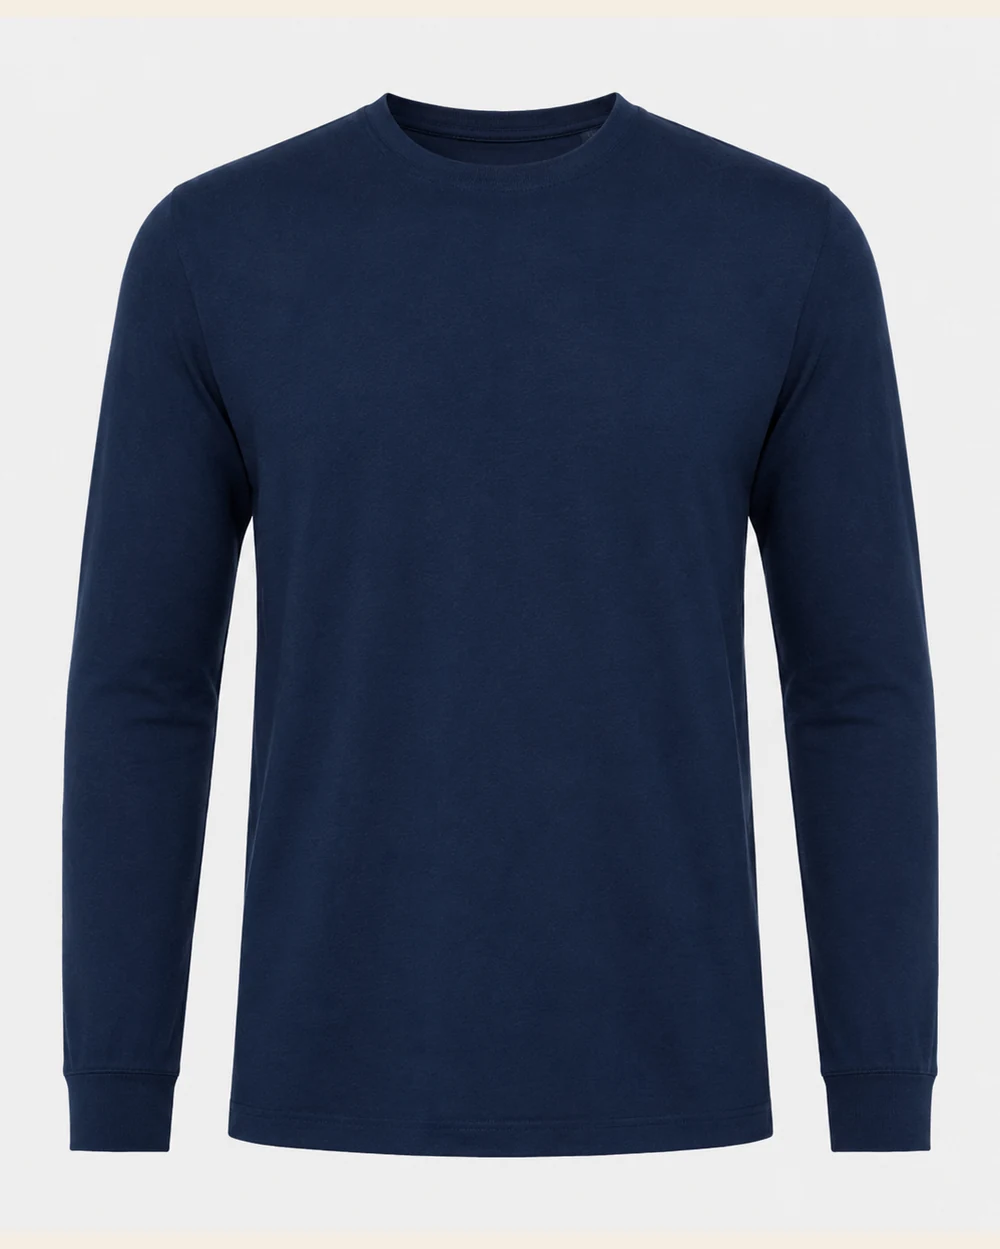
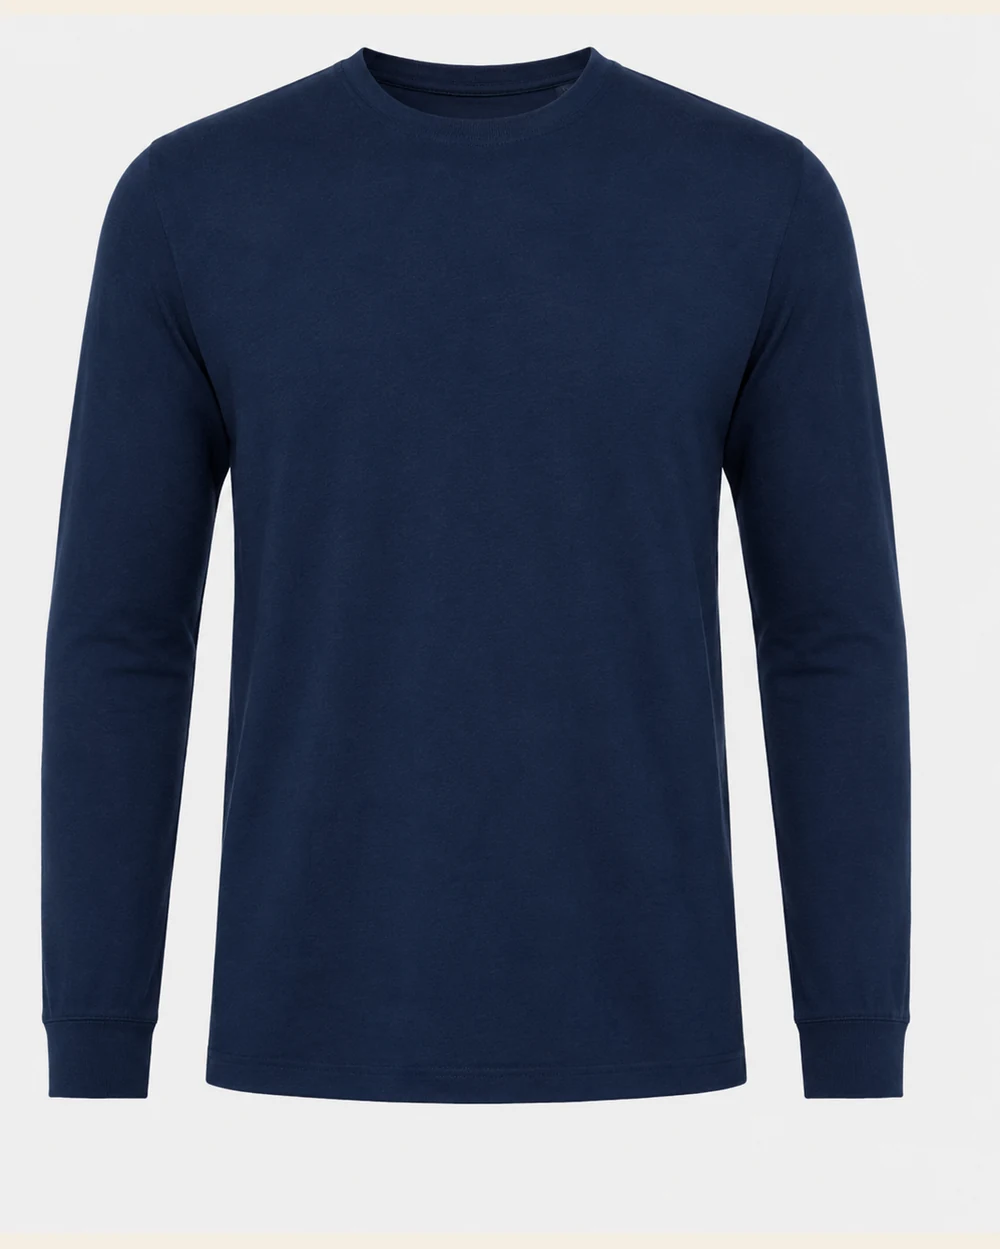
fix: crop más apretado, productos llenan el alto del catálogo
- Reduce padding del autocrop de 7% a 2-3% para que cada prenda llene
  el alto del canvas 4:5 (estilo Buzo con Capucha que sirvió de referencia)
- Todas las prendas se ven al mismo "zoom" relativo, sin tanto espacio en
  blanco crema alrededor
- 46 imágenes reprocesadas desde originales (7 MB total)

https://claude.ai/code/session_01HEXDpJccR3TfXVqUQu2rSV

Changed region(s): [[0.031, 0.0312, 0.961, 0.9367], [0.186, 0.281, 0.217, 0.3122]]

diff --git a/camisa-industrial-mistral.html b/camisa-industrial-mistral.html
@@ -21,8 +21,8 @@
     <link rel="preconnect" href="https://fonts.gstatic.com" crossorigin>
     <link href="https://fonts.googleapis.com/css2?family=Inter:wght@400;500;600;700&family=Roboto+Slab:wght@500;700;800&display=swap" rel="stylesheet">
     <link rel="stylesheet" href="https://cdnjs.cloudflare.com/ajax/libs/font-awesome/6.5.1/css/all.min.css">
-    <link rel="stylesheet" href="css/style.css?v=1780635449">
-    <script src="js/pixels.js?v=1780635449"></script>
+    <link rel="stylesheet" href="css/style.css?v=1780635776">
+    <script src="js/pixels.js?v=1780635776"></script>
     <script type="application/ld+json">
     { "@context": "https://schema.org", "@type": "Product", "name": "Camisa Industrial Mistral 7.5oz", "image": "https://textilespelileo.com/img/galeria/camisa-1.webp", "description": "Camisa de trabajo en tela Mistral 7.5oz, 100% algodón sanforizada (no encoge), proceso stone y cinta reflectiva AAA con respaldo para seguridad industrial.", "brand": { "@type": "Brand", "name": "Textiles Pelileo" }, "material": "100% algodón Mistral 7.5oz", "offers": { "@type": "AggregateOffer", "priceCurrency": "USD", "lowPrice": "12", "highPrice": "16", "availability": "https://schema.org/InStock", "seller": { "@type": "Organization", "name": "Textiles Pelileo" } } }
     </script>
@@ -159,9 +159,9 @@
         </div>
     </section>
 
-    <script src="js/partials.js?v=1780635449"></script>
-    <script src="js/products.js?v=1780635449"></script>
-    <script src="js/main.js?v=1780635449"></script>
+    <script src="js/partials.js?v=1780635776"></script>
+    <script src="js/products.js?v=1780635776"></script>
+    <script src="js/main.js?v=1780635776"></script>
     <script>
         TP.renderProducts("#related-grid", { only: ["pantalon-premium-gregori.html", "uniformes-industriales.html", "bordados-corporativos.html"] });
         document.querySelectorAll("[data-wa]").forEach(function (a) { a.href = TP.wa(document.body.getAttribute("data-wa-msg")); });

diff --git a/uniformes-industriales.html b/uniformes-industriales.html
@@ -21,8 +21,8 @@
     <link rel="preconnect" href="https://fonts.gstatic.com" crossorigin>
     <link href="https://fonts.googleapis.com/css2?family=Inter:wght@400;500;600;700&family=Roboto+Slab:wght@500;700;800&display=swap" rel="stylesheet">
     <link rel="stylesheet" href="https://cdnjs.cloudflare.com/ajax/libs/font-awesome/6.5.1/css/all.min.css">
-    <link rel="stylesheet" href="css/style.css?v=1780635449">
-    <script src="js/pixels.js?v=1780635449"></script>
+    <link rel="stylesheet" href="css/style.css?v=1780635776">
+    <script src="js/pixels.js?v=1780635776"></script>
     <script type="application/ld+json">
     { "@context": "https://schema.org", "@type": "Product", "name": "Uniforme Industrial Completo", "image": "https://textilespelileo.com/img/uniforme-completo.webp", "description": "Uniforme de trabajo completo: camisa Mistral 7.5oz 100% algodón con reflectivo AAA + pantalón Gregori 14oz 100% algodón. Con opción de bordado de logotipo. Ideal para dotación de empresas.", "brand": { "@type": "Brand", "name": "Textiles Pelileo" }, "offers": { "@type": "Offer", "priceCurrency": "USD", "availability": "https://schema.org/InStock", "seller": { "@type": "Organization", "name": "Textiles Pelileo" } } }
     </script>
@@ -132,9 +132,9 @@
         </div>
     </section>
 
-    <script src="js/partials.js?v=1780635449"></script>
-    <script src="js/products.js?v=1780635449"></script>
-    <script src="js/main.js?v=1780635449"></script>
+    <script src="js/partials.js?v=1780635776"></script>
+    <script src="js/products.js?v=1780635776"></script>
+    <script src="js/main.js?v=1780635776"></script>
     <script>
         TP.renderProducts("#related-grid", { only: ["camisa-industrial-mistral.html", "pantalon-premium-gregori.html", "bordados-corporativos.html", "diseno-logotipo.html"] });
         document.querySelectorAll("[data-wa]").forEach(function (a) { a.href = TP.wa(document.body.getAttribute("data-wa-msg")); });

diff --git a/pantalon-gregori-12oz.html b/pantalon-gregori-12oz.html
@@ -21,8 +21,8 @@
     <link rel="preconnect" href="https://fonts.gstatic.com" crossorigin>
     <link href="https://fonts.googleapis.com/css2?family=Inter:wght@400;500;600;700&family=Roboto+Slab:wght@500;700;800&display=swap" rel="stylesheet">
     <link rel="stylesheet" href="https://cdnjs.cloudflare.com/ajax/libs/font-awesome/6.5.1/css/all.min.css">
-    <link rel="stylesheet" href="css/style.css?v=1780635449">
-    <script src="js/pixels.js?v=1780635449"></script>
+    <link rel="stylesheet" href="css/style.css?v=1780635776">
+    <script src="js/pixels.js?v=1780635776"></script>
     <script type="application/ld+json">
     { "@context": "https://schema.org", "@type": "Product", "name": "Pantalón Gregori 12oz", "image": "https://textilespelileo.com/img/pantalon-premium-2.webp", "description": "Pantalón de trabajo en tela Gregori 12oz, 100% algodón. Opción más ligera que el premium manteniendo la calidad Gregori. Disponible bajo pedido.", "brand": { "@type": "Brand", "name": "Textiles Pelileo" }, "offers": { "@type": "AggregateOffer", "priceCurrency": "USD", "lowPrice": "10", "highPrice": "15", "availability": "https://schema.org/PreOrder", "seller": { "@type": "Organization", "name": "Textiles Pelileo" } } }
     </script>
@@ -122,9 +122,9 @@
         </div>
     </section>
 
-    <script src="js/partials.js?v=1780635449"></script>
-    <script src="js/products.js?v=1780635449"></script>
-    <script src="js/main.js?v=1780635449"></script>
+    <script src="js/partials.js?v=1780635776"></script>
+    <script src="js/products.js?v=1780635776"></script>
+    <script src="js/main.js?v=1780635776"></script>
     <script>
         TP.renderProducts("#related-grid", { only: ["pantalon-premium-gregori.html", "pantalon-stretch.html", "camisa-industrial-mistral.html"] });
         document.querySelectorAll("[data-wa]").forEach(function (a) { a.href = TP.wa(document.body.getAttribute("data-wa-msg")); });

diff --git a/pantalon-stretch.html b/pantalon-stretch.html
@@ -21,8 +21,8 @@
     <link rel="preconnect" href="https://fonts.gstatic.com" crossorigin>
     <link href="https://fonts.googleapis.com/css2?family=Inter:wght@400;500;600;700&family=Roboto+Slab:wght@500;700;800&display=swap" rel="stylesheet">
     <link rel="stylesheet" href="https://cdnjs.cloudflare.com/ajax/libs/font-awesome/6.5.1/css/all.min.css">
-    <link rel="stylesheet" href="css/style.css?v=1780635449">
-    <script src="js/pixels.js?v=1780635449"></script>
+    <link rel="stylesheet" href="css/style.css?v=1780635776">
+    <script src="js/pixels.js?v=1780635776"></script>
     <script type="application/ld+json">
     { "@context": "https://schema.org", "@type": "Product", "name": "Pantalón Stretch de Trabajo", "image": "https://textilespelileo.com/img/pantalon-doblado.webp", "description": "Pantalón de trabajo en tela stretch de alta calidad. Mayor comodidad y movilidad, resistente y duradero para uso laboral intensivo.", "brand": { "@type": "Brand", "name": "Textiles Pelileo" }, "offers": { "@type": "AggregateOffer", "priceCurrency": "USD", "lowPrice": "12", "highPrice": "16", "availability": "https://schema.org/InStock", "seller": { "@type": "Organization", "name": "Textiles Pelileo" } } }
     </script>
@@ -147,9 +147,9 @@
         </div>
     </section>
 
-    <script src="js/partials.js?v=1780635449"></script>
-    <script src="js/products.js?v=1780635449"></script>
-    <script src="js/main.js?v=1780635449"></script>
+    <script src="js/partials.js?v=1780635776"></script>
+    <script src="js/products.js?v=1780635776"></script>
+    <script src="js/main.js?v=1780635776"></script>
     <script>
         TP.renderProducts("#related-grid", { only: ["pantalon-premium-gregori.html", "camisa-industrial-mistral.html", "uniformes-industriales.html"] });
         document.querySelectorAll("[data-wa]").forEach(function (a) { a.href = TP.wa(document.body.getAttribute("data-wa-msg")); });

diff --git a/chaleco-gabardina-rojo.html b/chaleco-gabardina-rojo.html
@@ -21,8 +21,8 @@
     <link rel="preconnect" href="https://fonts.gstatic.com" crossorigin>
     <link href="https://fonts.googleapis.com/css2?family=Inter:wght@400;500;600;700&family=Roboto+Slab:wght@500;700;800&display=swap" rel="stylesheet">
     <link rel="stylesheet" href="https://cdnjs.cloudflare.com/ajax/libs/font-awesome/6.5.1/css/all.min.css">
-    <link rel="stylesheet" href="css/style.css?v=1780635449">
-    <script src="js/pixels.js?v=1780635449"></script>
+    <link rel="stylesheet" href="css/style.css?v=1780635776">
+    <script src="js/pixels.js?v=1780635776"></script>
     <script type="application/ld+json">
     { "@context": "https://schema.org", "@type": "Product", "name": "Chaleco Gabardina Reflectivo Rojo", "image": "https://textilespelileo.com/img/galeria/chalecorojo-1.webp", "description": "Chaleco rojo en tela gabardina resistente con doble cinta reflectiva amarilla AAA. Diseñado para seguridad industrial y trabajos de alta visibilidad.", "brand": { "@type": "Brand", "name": "Textiles Pelileo" }, "offers": { "@type": "Offer", "priceCurrency": "USD", "availability": "https://schema.org/InStock", "seller": { "@type": "Organization", "name": "Textiles Pelileo" } } }
     </script>
@@ -119,9 +119,9 @@
         </div>
     </section>
 
-    <script src="js/partials.js?v=1780635449"></script>
-    <script src="js/products.js?v=1780635449"></script>
-    <script src="js/main.js?v=1780635449"></script>
+    <script src="js/partials.js?v=1780635776"></script>
+    <script src="js/products.js?v=1780635776"></script>
+    <script src="js/main.js?v=1780635776"></script>
     <script>
         TP.renderProducts("#related-grid", { only: ["chaleco-antifluidos-azul.html", "camisa-industrial-mistral.html", "uniformes-industriales.html"] });
         document.querySelectorAll("[data-wa]").forEach(function (a) { a.href = TP.wa(document.body.getAttribute("data-wa-msg")); });

diff --git a/buzo-capucha.html b/buzo-capucha.html
@@ -21,8 +21,8 @@
     <link rel="preconnect" href="https://fonts.gstatic.com" crossorigin>
     <link href="https://fonts.googleapis.com/css2?family=Inter:wght@400;500;600;700&family=Roboto+Slab:wght@500;700;800&display=swap" rel="stylesheet">
     <link rel="stylesheet" href="https://cdnjs.cloudflare.com/ajax/libs/font-awesome/6.5.1/css/all.min.css">
-    <link rel="stylesheet" href="css/style.css?v=1780635449">
-    <script src="js/pixels.js?v=1780635449"></script>
+    <link rel="stylesheet" href="css/style.css?v=1780635776">
+    <script src="js/pixels.js?v=1780635776"></script>
     <script type="application/ld+json">
     { "@context": "https://schema.org", "@type": "Product", "name": "Buzo con Capucha y Reflectivo", "image": "https://textilespelileo.com/img/galeria/buzocapucha-1.webp", "description": "Buzo manga larga con capucha en tela jersey, con cinta reflectiva incluida. Cómodo, resistente y personalizable.", "brand": { "@type": "Brand", "name": "Textiles Pelileo" }, "offers": { "@type": "AggregateOffer", "priceCurrency": "USD", "lowPrice": "11", "highPrice": "12", "availability": "https://schema.org/InStock", "seller": { "@type": "Organization", "name": "Textiles Pelileo" } } }
     </script>
@@ -134,9 +134,9 @@
         </div>
     </section>
 
-    <script src="js/partials.js?v=1780635449"></script>
-    <script src="js/products.js?v=1780635449"></script>
-    <script src="js/main.js?v=1780635449"></script>
+    <script src="js/partials.js?v=1780635776"></script>
+    <script src="js/products.js?v=1780635776"></script>
+    <script src="js/main.js?v=1780635776"></script>
     <script>
         TP.renderProducts("#related-grid", { only: ["buzo-pique.html", "camiseta-jersey.html", "bordados-corporativos.html"] });
         document.querySelectorAll("[data-wa]").forEach(function (a) { a.href = TP.wa(document.body.getAttribute("data-wa-msg")); });

diff --git a/camiseta-jersey.html b/camiseta-jersey.html
@@ -21,8 +21,8 @@
     <link rel="preconnect" href="https://fonts.gstatic.com" crossorigin>
     <link href="https://fonts.googleapis.com/css2?family=Inter:wght@400;500;600;700&family=Roboto+Slab:wght@500;700;800&display=swap" rel="stylesheet">
     <link rel="stylesheet" href="https://cdnjs.cloudflare.com/ajax/libs/font-awesome/6.5.1/css/all.min.css">
-    <link rel="stylesheet" href="css/style.css?v=1780635449">
-    <script src="js/pixels.js?v=1780635449"></script>
+    <link rel="stylesheet" href="css/style.css?v=1780635776">
+    <script src="js/pixels.js?v=1780635776"></script>
     <script type="application/ld+json">
     { "@context": "https://schema.org", "@type": "Product", "name": "Camiseta de Tela Jersey", "image": "https://textilespelileo.com/img/camiseta-jersey.webp", "description": "Camiseta básica de cuello redondo en tela jersey, cómoda, ligera y de colores duraderos. Ideal para personalizar con bordado.", "brand": { "@type": "Brand", "name": "Textiles Pelileo" }, "offers": { "@type": "AggregateOffer", "priceCurrency": "USD", "lowPrice": "6", "highPrice": "7", "availability": "https://schema.org/InStock", "seller": { "@type": "Organization", "name": "Textiles Pelileo" } } }
     </script>
@@ -134,9 +134,9 @@
         </div>
     </section>
 
-    <script src="js/partials.js?v=1780635449"></script>
-    <script src="js/products.js?v=1780635449"></script>
-    <script src="js/main.js?v=1780635449"></script>
+    <script src="js/partials.js?v=1780635776"></script>
+    <script src="js/products.js?v=1780635776"></script>
+    <script src="js/main.js?v=1780635776"></script>
     <script>
         TP.renderProducts("#related-grid", { only: ["buzo-pique.html", "camisetas-buzos.html", "bordados-corporativos.html"] });
         document.querySelectorAll("[data-wa]").forEach(function (a) { a.href = TP.wa(document.body.getAttribute("data-wa-msg")); });

diff --git a/buzo-pique.html b/buzo-pique.html
@@ -21,8 +21,8 @@
     <link rel="preconnect" href="https://fonts.gstatic.com" crossorigin>
     <link href="https://fonts.googleapis.com/css2?family=Inter:wght@400;500;600;700&family=Roboto+Slab:wght@500;700;800&display=swap" rel="stylesheet">
     <link rel="stylesheet" href="https://cdnjs.cloudflare.com/ajax/libs/font-awesome/6.5.1/css/all.min.css">
-    <link rel="stylesheet" href="css/style.css?v=1780635449">
-    <script src="js/pixels.js?v=1780635449"></script>
+    <link rel="stylesheet" href="css/style.css?v=1780635776">
+    <script src="js/pixels.js?v=1780635776"></script>
     <script type="application/ld+json">
     { "@context": "https://schema.org", "@type": "Product", "name": "Buzo Polo Piqué", "image": "https://textilespelileo.com/img/galeria/buzopique-1.webp", "description": "Buzo en tela polo piqué premium, costuras reforzadas y acabado de calidad. Opción con capucha y cinta reflectiva.", "brand": { "@type": "Brand", "name": "Textiles Pelileo" }, "offers": { "@type": "AggregateOffer", "priceCurrency": "USD", "lowPrice": "9", "highPrice": "10", "availability": "https://schema.org/InStock", "seller": { "@type": "Organization", "name": "Textiles Pelileo" } } }
     </script>
@@ -134,9 +134,9 @@
         </div>
     </section>
 
-    <script src="js/partials.js?v=1780635449"></script>
-    <script src="js/products.js?v=1780635449"></script>
-    <script src="js/main.js?v=1780635449"></script>
+    <script src="js/partials.js?v=1780635776"></script>
+    <script src="js/products.js?v=1780635776"></script>
+    <script src="js/main.js?v=1780635776"></script>
     <script>
         TP.renderProducts("#related-grid", { only: ["camiseta-jersey.html", "camisetas-buzos.html", "bordados-corporativos.html"] });
         document.querySelectorAll("[data-wa]").forEach(function (a) { a.href = TP.wa(document.body.getAttribute("data-wa-msg")); });

diff --git a/camiseta-polo-pique.html b/camiseta-polo-pique.html
@@ -21,8 +21,8 @@
     <link rel="preconnect" href="https://fonts.gstatic.com" crossorigin>
     <link href="https://fonts.googleapis.com/css2?family=Inter:wght@400;500;600;700&family=Roboto+Slab:wght@500;700;800&display=swap" rel="stylesheet">
     <link rel="stylesheet" href="https://cdnjs.cloudflare.com/ajax/libs/font-awesome/6.5.1/css/all.min.css">
-    <link rel="stylesheet" href="css/style.css?v=1780635449">
-    <script src="js/pixels.js?v=1780635449"></script>
+    <link rel="stylesheet" href="css/style.css?v=1780635776">
+    <script src="js/pixels.js?v=1780635776"></script>
     <script type="application/ld+json">
     { "@context": "https://schema.org", "@type": "Product", "name": "Camiseta Polo Piqué", "image": "https://textilespelileo.com/img/galeria/cpique-1.webp", "description": "Camiseta polo manga corta en tela piqué premium con cuello polo clásico, costuras reforzadas. Ideal para personalizar.", "brand": { "@type": "Brand", "name": "Textiles Pelileo" }, "offers": { "@type": "AggregateOffer", "priceCurrency": "USD", "lowPrice": "8", "highPrice": "9", "availability": "https://schema.org/InStock", "seller": { "@type": "Organization", "name": "Textiles Pelileo" } } }
     </script>
@@ -134,9 +134,9 @@
         </div>
     </section>
 
-    <script src="js/partials.js?v=1780635449"></script>
-    <script src="js/products.js?v=1780635449"></script>
-    <script src="js/main.js?v=1780635449"></script>
+    <script src="js/partials.js?v=1780635776"></script>
+    <script src="js/products.js?v=1780635776"></script>
+    <script src="js/main.js?v=1780635776"></script>
     <script>
         TP.renderProducts("#related-grid", { only: ["buzo-pique.html", "camiseta-jersey.html", "bordados-corporativos.html"] });
         document.querySelectorAll("[data-wa]").forEach(function (a) { a.href = TP.wa(document.body.getAttribute("data-wa-msg")); });

diff --git a/pantalon-economico-empresarial.html b/pantalon-economico-empresarial.html
@@ -21,8 +21,8 @@
     <link rel="preconnect" href="https://fonts.gstatic.com" crossorigin>
     <link href="https://fonts.googleapis.com/css2?family=Inter:wght@400;500;600;700&family=Roboto+Slab:wght@500;700;800&display=swap" rel="stylesheet">
     <link rel="stylesheet" href="https://cdnjs.cloudflare.com/ajax/libs/font-awesome/6.5.1/css/all.min.css">
-    <link rel="stylesheet" href="css/style.css?v=1780635449">
-    <script src="js/pixels.js?v=1780635449"></script>
+    <link rel="stylesheet" href="css/style.css?v=1780635776">
+    <script src="js/pixels.js?v=1780635776"></script>
     <script type="application/ld+json">
     { "@context": "https://schema.org", "@type": "Product", "name": "Pantalón Económico Empresarial", "description": "Pantalón de trabajo pensado para dotación de empresas y cuadrillas con presupuesto ajustado. Disponible solo bajo pedido por mayor.", "brand": { "@type": "Brand", "name": "Textiles Pelileo" }, "offers": { "@type": "AggregateOffer", "priceCurrency": "USD", "lowPrice": "9", "highPrice": "10", "availability": "https://schema.org/PreOrder", "seller": { "@type": "Organization", "name": "Textiles Pelileo" } } }
     </script>
@@ -122,9 +122,9 @@
         </div>
     </section>
 
-    <script src="js/partials.js?v=1780635449"></script>
-    <script src="js/products.js?v=1780635449"></script>
-    <script src="js/main.js?v=1780635449"></script>
+    <script src="js/partials.js?v=1780635776"></script>
+    <script src="js/products.js?v=1780635776"></script>
+    <script src="js/main.js?v=1780635776"></script>
     <script>
         TP.renderProducts("#related-grid", { only: ["pantalon-premium-gregori.html", "camisa-industrial-mistral.html", "uniformes-industriales.html"] });
         document.querySelectorAll("[data-wa]").forEach(function (a) { a.href = TP.wa(document.body.getAttribute("data-wa-msg")); });

diff --git a/chaleco-antifluidos-azul.html b/chaleco-antifluidos-azul.html
@@ -21,8 +21,8 @@
     <link rel="preconnect" href="https://fonts.gstatic.com" crossorigin>
     <link href="https://fonts.googleapis.com/css2?family=Inter:wght@400;500;600;700&family=Roboto+Slab:wght@500;700;800&display=swap" rel="stylesheet">
     <link rel="stylesheet" href="https://cdnjs.cloudflare.com/ajax/libs/font-awesome/6.5.1/css/all.min.css">
-    <link rel="stylesheet" href="css/style.css?v=1780635449">
-    <script src="js/pixels.js?v=1780635449"></script>
+    <link rel="stylesheet" href="css/style.css?v=1780635776">
+    <script src="js/pixels.js?v=1780635776"></script>
     <script type="application/ld+json">
     { "@context": "https://schema.org", "@type": "Product", "name": "Chaleco Antifluidos Reflectivo Azul", "image": "https://textilespelileo.com/img/galeria/chalecoazul-1.webp", "description": "Chaleco azul marino en tela antifluidos que repele el agua, con cinta reflectiva AAA de alta visibilidad.", "brand": { "@type": "Brand", "name": "Textiles Pelileo" }, "offers": { "@type": "Offer", "priceCurrency": "USD", "availability": "https://schema.org/InStock", "seller": { "@type": "Organization", "name": "Textiles Pelileo" } } }
     </script>
@@ -119,9 +119,9 @@
         </div>
     </section>
 
-    <script src="js/partials.js?v=1780635449"></script>
-    <script src="js/products.js?v=1780635449"></script>
-    <script src="js/main.js?v=1780635449"></script>
+    <script src="js/partials.js?v=1780635776"></script>
+    <script src="js/products.js?v=1780635776"></script>
+    <script src="js/main.js?v=1780635776"></script>
     <script>
         TP.renderProducts("#related-grid", { only: ["chaleco-gabardina-rojo.html", "camisa-industrial-mistral.html", "uniformes-industriales.html"] });
         document.querySelectorAll("[data-wa]").forEach(function (a) { a.href = TP.wa(document.body.getAttribute("data-wa-msg")); });

diff --git a/camisetas-buzos.html b/camisetas-buzos.html
@@ -21,8 +21,8 @@
     <link rel="preconnect" href="https://fonts.gstatic.com" crossorigin>
     <link href="https://fonts.googleapis.com/css2?family=Inter:wght@400;500;600;700&family=Roboto+Slab:wght@500;700;800&display=swap" rel="stylesheet">
     <link rel="stylesheet" href="https://cdnjs.cloudflare.com/ajax/libs/font-awesome/6.5.1/css/all.min.css">
-    <link rel="stylesheet" href="css/style.css?v=1780635449">
-    <script src="js/pixels.js?v=1780635449"></script>
+    <link rel="stylesheet" href="css/style.css?v=1780635776">
+    <script src="js/pixels.js?v=1780635776"></script>
     <script type="application/ld+json">
     { "@context": "https://schema.org", "@type": "Product", "name": "Camisetas y Buzos de Trabajo", "description": "Camisetas y buzos en tela jersey y polo piqué, con opción de capucha y cinta reflectiva. Ideales para personalizar con logotipo.", "brand": { "@type": "Brand", "name": "Textiles Pelileo" }, "offers": { "@type": "AggregateOffer", "priceCurrency": "USD", "lowPrice": "6", "highPrice": "10", "availability": "https://schema.org/InStock", "seller": { "@type": "Organization", "name": "Textiles Pelileo" } } }
     </script>
@@ -134,9 +134,9 @@
         </div>
     </section>
 
-    <script src="js/partials.js?v=1780635449"></script>
-    <script src="js/products.js?v=1780635449"></script>
-    <script src="js/main.js?v=1780635449"></script>
+    <script src="js/partials.js?v=1780635776"></script>
+    <script src="js/products.js?v=1780635776"></script>
+    <script src="js/main.js?v=1780635776"></script>
     <script>
         TP.renderProducts("#related-grid", { only: ["camisa-industrial-mistral.html", "bordados-corporativos.html", "uniformes-industriales.html"] });
         document.querySelectorAll("[data-wa]").forEach(function (a) { a.href = TP.wa(document.body.getAttribute("data-wa-msg")); });
